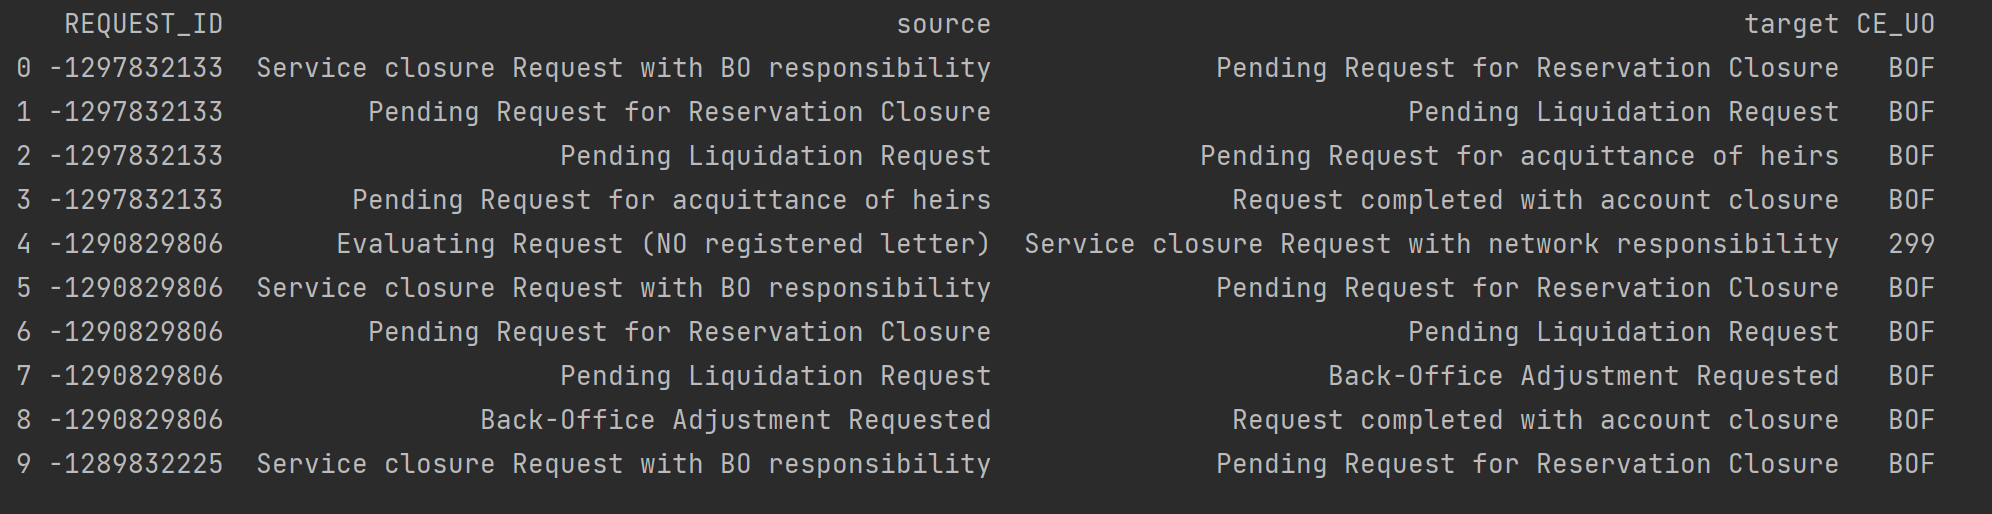
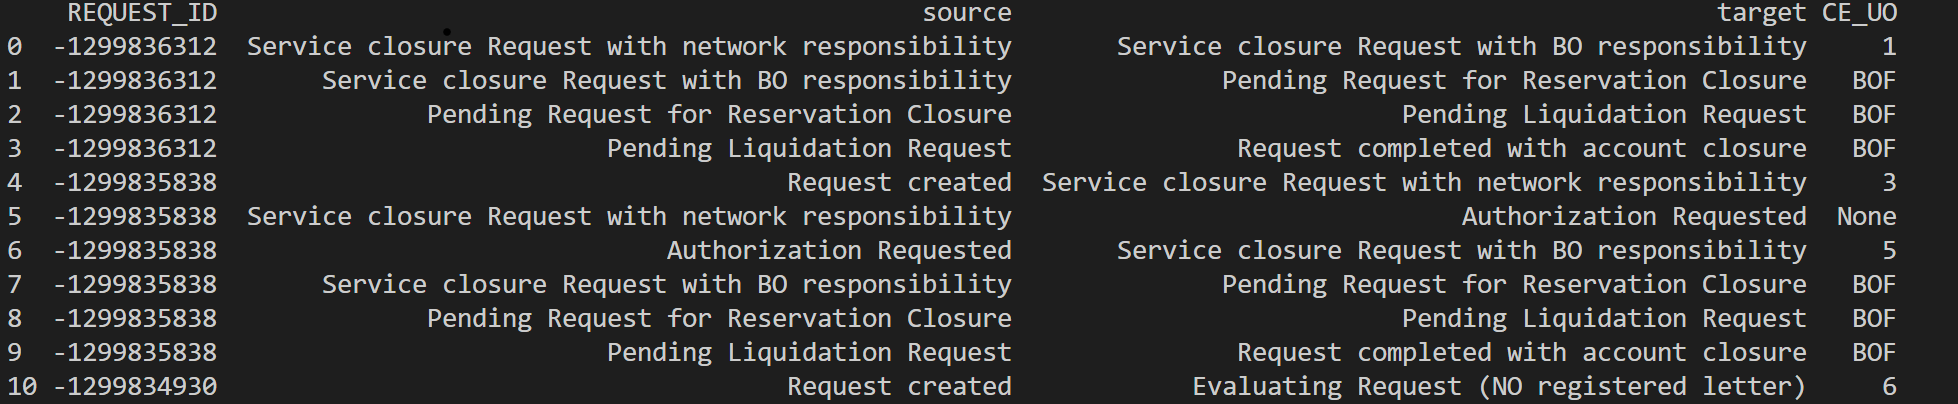
amended segregation of duties + pciture for readme

Changed region(s): [[0.0, 0.0, 0.9969, 0.9802], [0.5608, 0.0, 0.9969, 0.1485]]

diff --git a/pyinsights/organisational_profiling/compliance.py b/pyinsights/organisational_profiling/compliance.py
@@ -1,8 +1,23 @@
-from pyinsights import Connector
 from pycelonis.celonis_api.pql.pql import PQL, PQLColumn, PQLFilter
+from pyinsights import Connector
 
 
-def segregation_of_duties(connector, resource_column):
+def _build_filter(connector, resource_column, activities):
+    # build pql-conform strings from activity lists
+    act_list = ''.join(
+        f"""['{act}','{act}'],""" for act in activities)[:-1]
+
+    act_query = f""" "{connector.activity_table()}"."{connector.activity_col()}" """
+    res_query = f""" "{connector.activity_table()}"."{resource_column}"  """
+    # filter on cases when same resource executes associated activities
+    resource_filter = f"""
+    SOURCE({res_query}, REMAP_VALUES({act_query}, {act_list}, NULL)) 
+        = TARGET({res_query})   """
+
+    return PQLFilter(resource_filter)
+
+
+def segregation_of_duties(connector, resource_column, activities):
     """
     computes violations of the four-eyes principle
     :param connector: pycelonis.Connector
@@ -13,15 +28,18 @@ def segregation_of_duties(connector, resource_column):
     act_target = f"""TARGET("{connector.activity_table()}"."{connector.activity_col()}") """
     case_id = f"""SOURCE("{connector.activity_table()}"."{connector.case_col()}") """
     resource = f"""SOURCE("{connector.activity_table()}"."{resource_column}") """
-
-    filter = f""" FILTER SOURCE("{connector.activity_table()}"."{resource_column}") = TARGET("{connector.activity_table()}"."{resource_column}")   """
-
+    timestamp = f""" SOURCE("{connector.activity_table()}"."{connector.timestamp()}")"""
+    # get violations
     query = PQL()
-    query += PQLFilter(filter)
     query += PQLColumn(name=connector.case_col(), query=case_id)
     query += PQLColumn(name="source", query=act_source)
     query += PQLColumn(name="target", query=act_target)
     query += PQLColumn(name=resource_column, query=resource)
+
+    # filter
+    resource_filter = _build_filter(
+        connector, resource_column, activities)
+    query += resource_filter
 
     df = connector.datamodel.get_data_frame(query)
 
